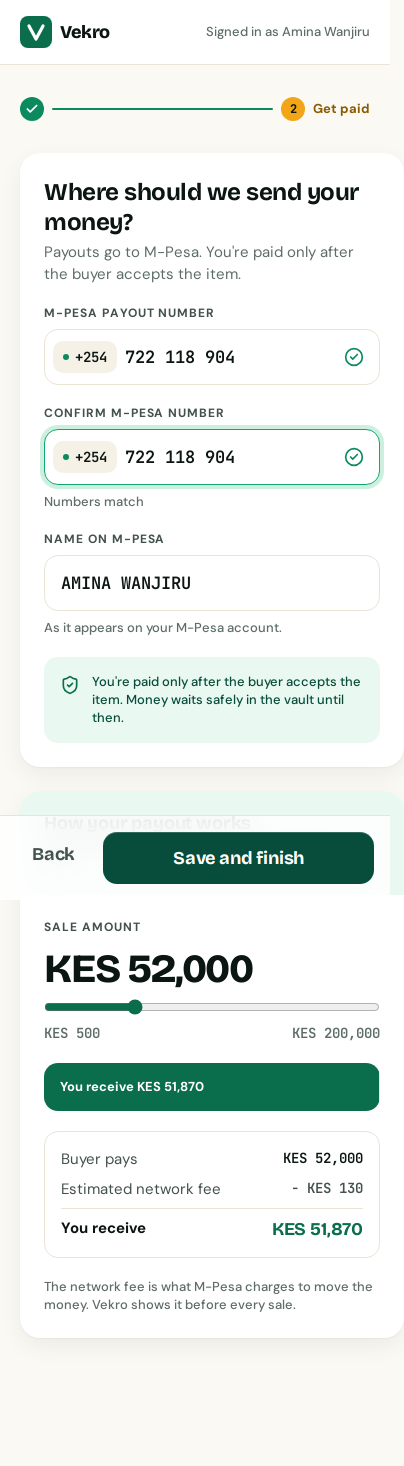
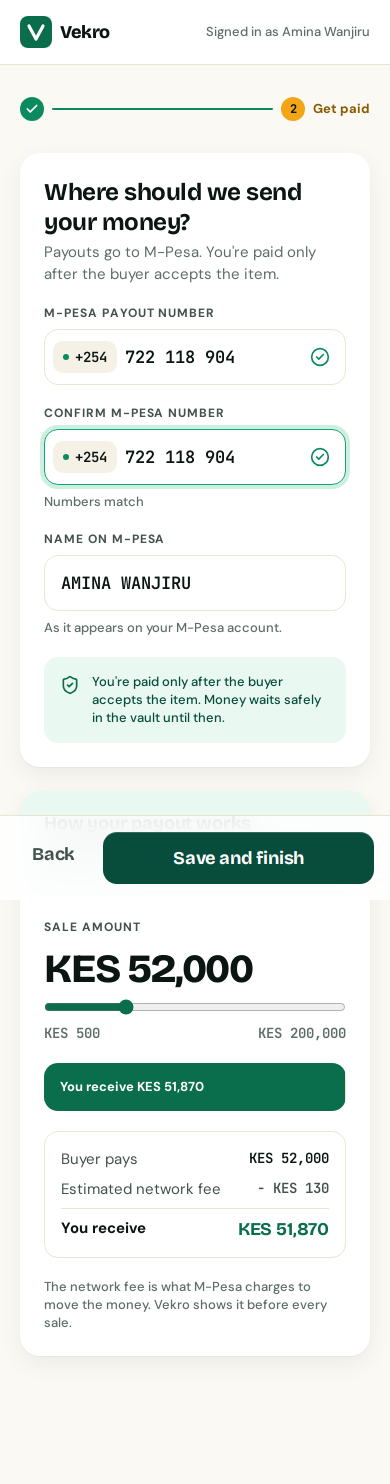
fix(seller): keep S3 grids inside a phone viewport (#74)

diff --git a/src/views/pages/seller/PayoutSetupPage.tsx b/src/views/pages/seller/PayoutSetupPage.tsx
@@ -44,7 +44,7 @@ export function PayoutSetupPage() {
         )}
 
         {s.step === 'shop' && (
-          <div className="grid gap-6 lg:grid-cols-[1fr_300px]">
+          <div className="grid grid-cols-[minmax(0,1fr)] gap-6 lg:grid-cols-[minmax(0,1fr)_300px]">
             <Card className="flex flex-col gap-5 p-6 sm:p-8">
               <div>
                 <h1 className="type-display-lg text-text">Tell buyers who you are</h1>
@@ -139,7 +139,7 @@ export function PayoutSetupPage() {
         {s.step === 'payout' && (
           <form noValidate onSubmit={s.onSubmit} className="flex flex-col gap-6">
             {s.error && <Banner tone="danger" title={s.error} />}
-            <div className="grid gap-6 lg:grid-cols-2">
+            <div className="grid grid-cols-[minmax(0,1fr)] gap-6 lg:grid-cols-2">
               <Card className="flex flex-col gap-5 p-6 sm:p-8">
                 <div>
                   <h1 className="type-headline text-text">Where should we send your money?</h1>
